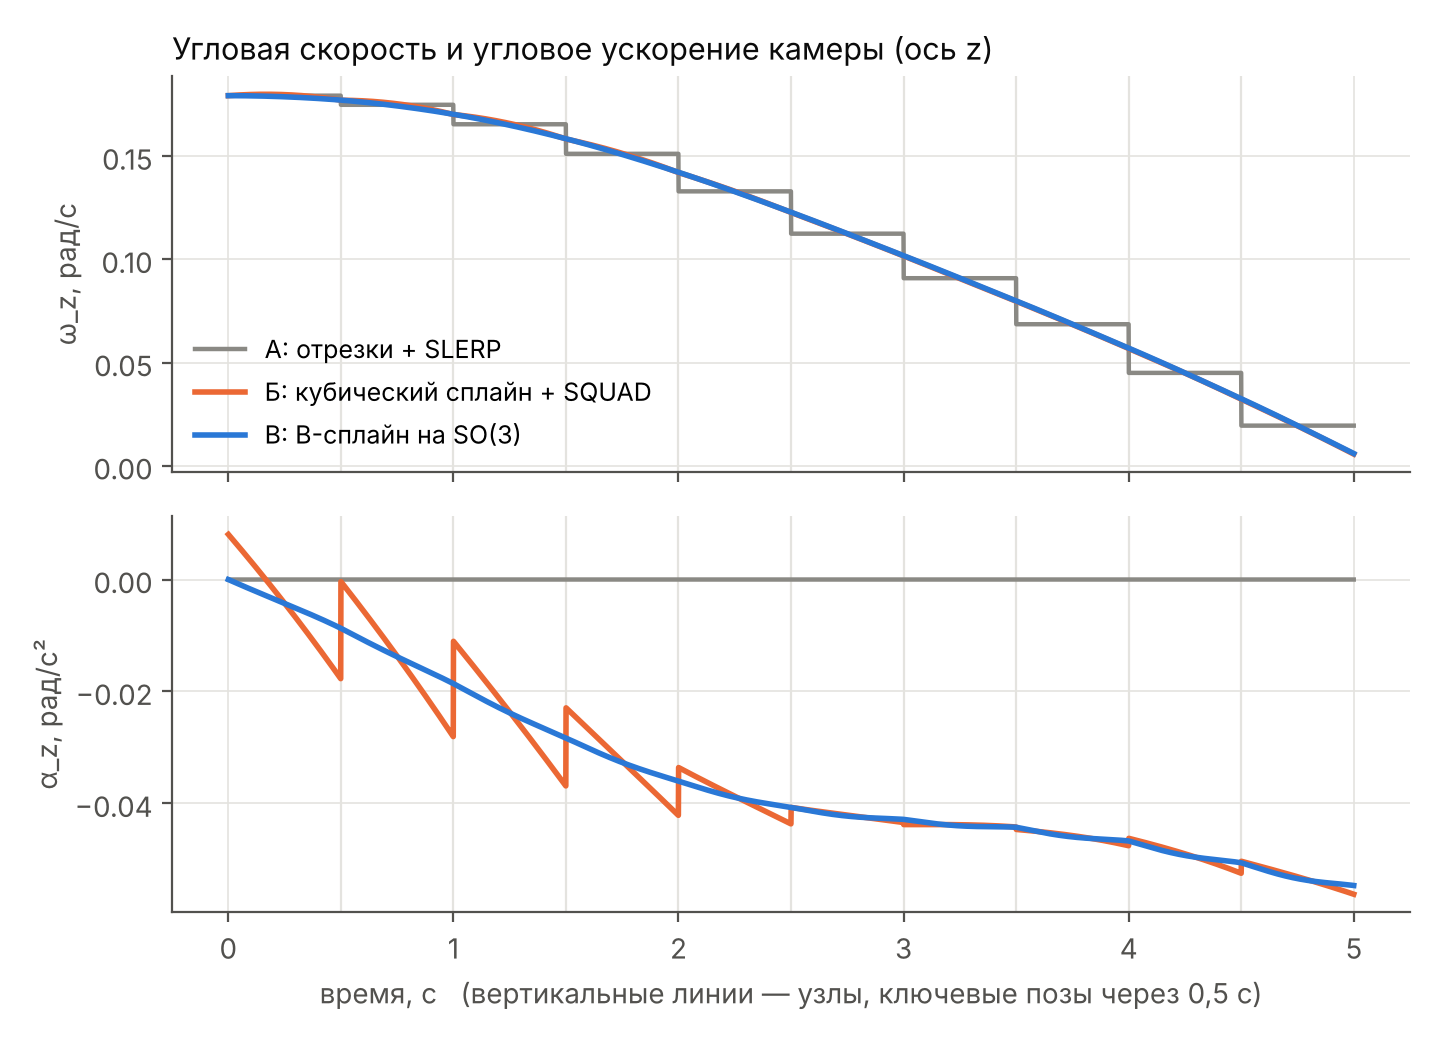
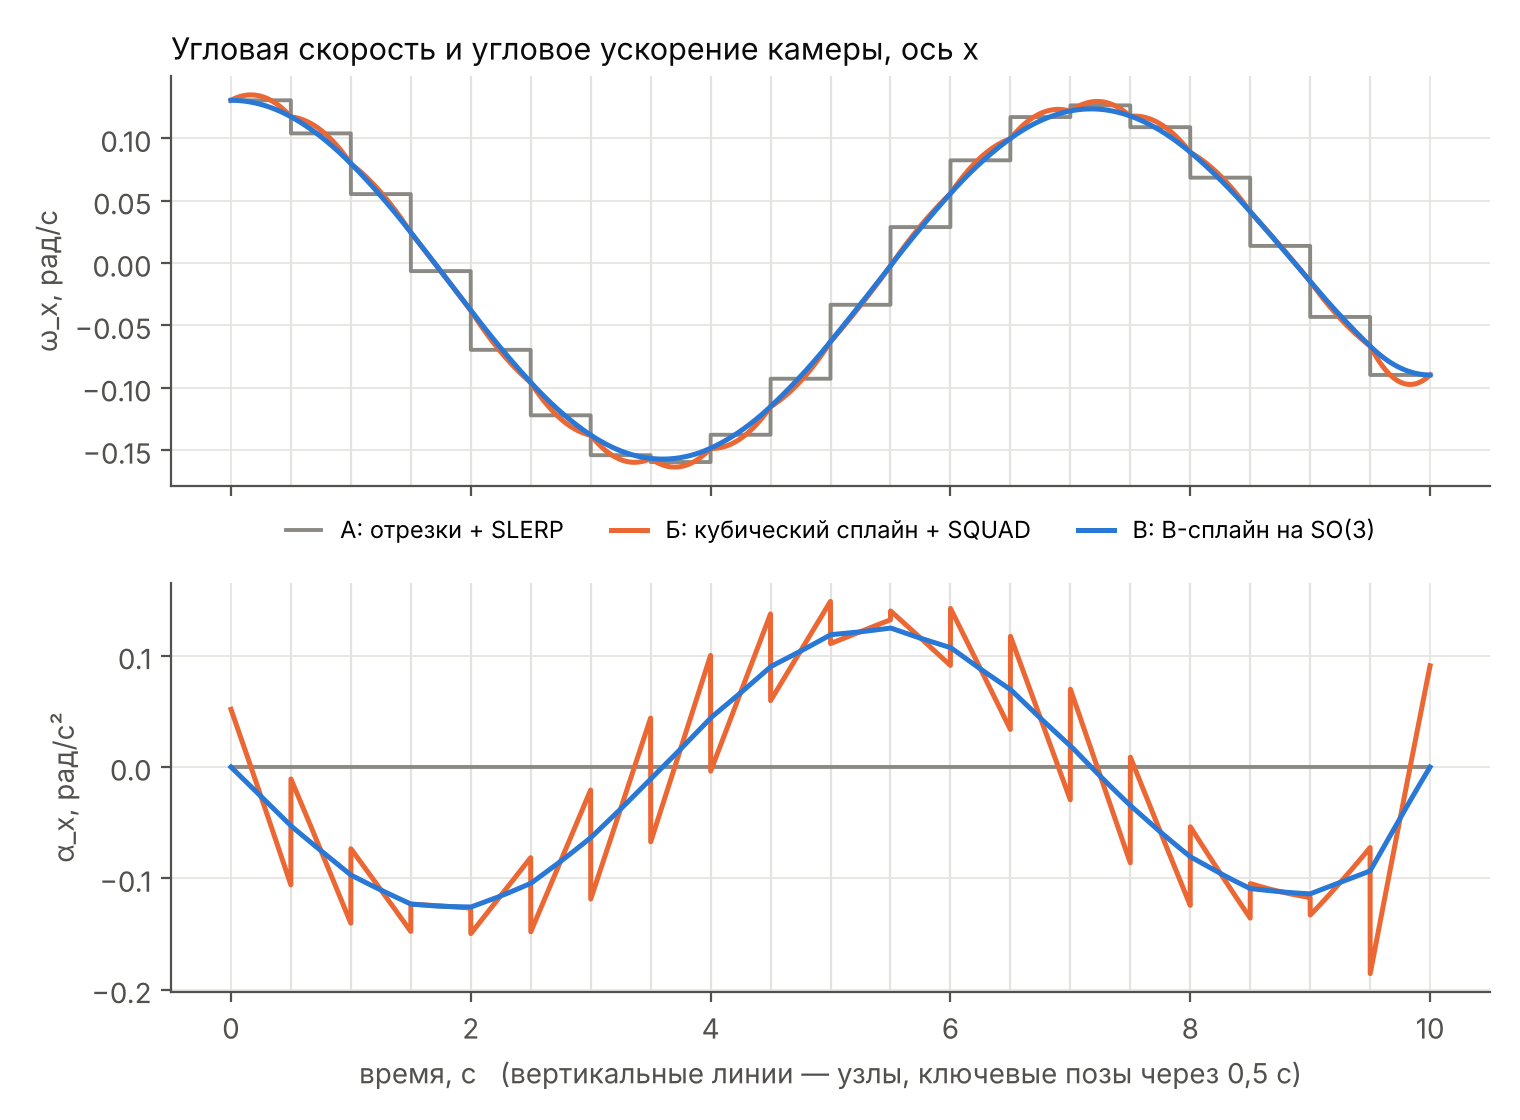
Правки по рецензии: скачки на стыке, предел слева в РК4, рисунки на всю траекторию
- Вычисление по формуле заданного отрезка (параметр ref): скачки в узлах
  сравниваются при u = 1 и u = 0, а не в точках ±1e-9 с.
- РК4 с пределом слева в конце шага (left_limit): модель Б на сетке в узлах
  даёт порядок ~3.8, то есть первый порядок там зависит от отсчёта в узле.
- Рисунки 1 и 2 на всю траекторию 10 с, оси с наибольшими скачками.
- snippet.py: строки до 80 символов.

Claude-Session: https://claude.ai/code/session_0179BELn6KCQVn68LiKQreBn

diff --git a/code/spline_imu.py b/code/spline_imu.py
@@ -84,10 +84,14 @@ class Keyframes:
         self.K = len(p) - 1
         self.tK = t0 + self.K * dt
 
-    def seg(self, t):
-        """Номер отрезка i и локальный параметр u в [0, 1]."""
+    def seg(self, t, ref=None):
+        """Номер отрезка i и локальный параметр u (u в [0, 1) внутри отрезка).
+        Если задан ref, отрезок берётся по моментам ref, а u считается для t:
+        так формула отрезка продолжается за его границу (нужно для пределов
+        слева и справа в узле)."""
         x = (np.asarray(t, float) - self.t0) / self.dt
-        i = np.clip(np.floor(x).astype(int), 0, self.K - 1)
+        xr = x if ref is None else (np.asarray(ref, float) - self.t0) / self.dt
+        i = np.clip(np.floor(xr).astype(int), 0, self.K - 1)
         return i, x - i
 
 
@@ -123,10 +127,10 @@ class ModelV:
         self.Q = np.concatenate([Q0[None], R, QK2[None]])     # Q_0..Q_{K+2}
         self.d = Log(np.swapaxes(self.Q[:-1], -1, -2) @ self.Q[1:])
 
-    def eval(self, t):
+    def eval(self, t, ref=None):
         kf = self.kf
         t = np.atleast_1d(t)
-        i, u = kf.seg(t)
+        i, u = kf.seg(t, ref)
         dt = kf.dt
         C = np.stack([self.c[i + j] for j in range(4)], axis=-1)    # (N,3,4)
         psi = lambda a, b, c_, d: np.stack([a, b, c_, d], -1)[..., None]
@@ -155,11 +159,11 @@ def slerp(P, Q, u):
     return P @ Exp(u[..., None] * Log(np.swapaxes(P, -1, -2) @ Q))
 
 
-def numeric_rates(Rfun, t, eps=1e-3):
+def numeric_rates(Rfun, t, eps=1e-3, seg=None):
     """omega, alpha в собственной системе по 5-точечным разностям.
     Rfun(t, seg) вычисляет поворот по формуле отрезка seg (гладкое продолжение
     за его границы), поэтому шаблон не перескакивает через узел."""
-    kf_seg = Rfun.seg_of(t)
+    kf_seg = Rfun.seg_of(t) if seg is None else seg
 
     def omega_at(tt):
         offs = np.array([-2, -1, 1, 2]) * eps
@@ -181,10 +185,10 @@ class ModelA:
     def __init__(self, kf):
         self.kf = kf
 
-    def eval(self, t):
+    def eval(self, t, ref=None):
         kf = self.kf
         t = np.atleast_1d(t)
-        i, u = kf.seg(t)
+        i, u = kf.seg(t, ref)
         p = kf.p[i] + u[:, None] * (kf.p[i + 1] - kf.p[i])
         acc = np.zeros_like(p)                       # внутри отрезка p'' = 0
         d = Log(np.swapaxes(kf.R[i], -1, -2) @ kf.R[i + 1])
@@ -220,13 +224,16 @@ class ModelB:
         Rfun.seg_of = lambda tt: kf.seg(tt)[0]
         self.Rfun = Rfun
 
-    def eval(self, t):
+    def eval(self, t, ref=None):
         t = np.atleast_1d(t)
-        i, _ = self.kf.seg(t)
+        i, _ = self.kf.seg(t, ref)
         Rm = self.Rfun(t, i)
-        p = self.cs(t)
-        acc = self.cs(t, 2)
-        om, al = numeric_rates(self.Rfun, t)
+        # кусочный многочлен отрезка i (а не того, куда попало t)
+        x = t[:, None] - self.cs.x[i][:, None]
+        c = self.cs.c[:, i, :]                       # (4, N, 3)
+        p = ((c[0] * x + c[1]) * x + c[2]) * x + c[3]
+        acc = 6 * c[0] * x + 2 * c[1]
+        om, al = numeric_rates(self.Rfun, t, seg=i)
         return Rm, p, acc, om, al
 
 
@@ -237,8 +244,8 @@ class Rig:
         self.p_BC = np.asarray(p_BC)
         self.r = -self.R_BC.T @ self.p_BC           # положение IMU в системе C
 
-    def imu_state(self, model, t):
-        Rwc, pwc, awc, omc, alc = model.eval(t)
+    def imu_state(self, model, t, ref=None):
+        Rwc, pwc, awc, omc, alc = model.eval(t, ref)
         r = self.r
         Rwb = Rwc @ self.R_BC.T
         pwb = pwc + (Rwc @ r)
@@ -247,8 +254,8 @@ class Rig:
         omb = (self.R_BC @ omc[..., None])[..., 0]
         return Rwb, pwb, awb, omb
 
-    def ideal_imu(self, model, t):
-        Rwb, _, awb, omb = self.imu_state(model, t)
+    def ideal_imu(self, model, t, ref=None):
+        Rwb, _, awb, omb = self.imu_state(model, t, ref)
         f = (np.swapaxes(Rwb, -1, -2) @ (awb - G_W)[..., None])[..., 0]
         return omb, f
 
@@ -307,6 +314,28 @@ def integrate_rk4(R0, v0, p0, om_half, acc_half, h):
     return RR, P
 
 
+def integrate_rk4_lr(R0, v0, p0, om_half, acc_half, om_left, acc_left, h):
+    """РК4, где последняя стадия шага берёт предел слева (om_left, acc_left)."""
+    n = (len(om_half) - 1) // 2 + 1
+    R, v, p = R0.copy(), v0.copy(), p0.copy()
+    P = np.empty((n, 3)); RR = np.empty((n, 3, 3))
+    P[0], RR[0] = p, R
+    for s in range(n - 1):
+        k0, k1, k2 = 2 * s, 2 * s + 1, 2 * s + 2
+        dR1, dv1, dp1 = R @ hat(om_half[k0]), R @ acc_half[k0] + G_W, v
+        R2, v2 = R + 0.5*h*dR1, v + 0.5*h*dv1
+        dR2, dv2, dp2 = R2 @ hat(om_half[k1]), R2 @ acc_half[k1] + G_W, v2
+        R3, v3 = R + 0.5*h*dR2, v + 0.5*h*dv2
+        dR3, dv3, dp3 = R3 @ hat(om_half[k1]), R3 @ acc_half[k1] + G_W, v3
+        R4, v4 = R + h*dR3, v + h*dv3
+        dR4, dv4, dp4 = R4 @ hat(om_left[k2]), R4 @ acc_left[k2] + G_W, v4
+        R = polar(R + h/6 * (dR1 + 2*dR2 + 2*dR3 + dR4))
+        v = v + h/6 * (dv1 + 2*dv2 + 2*dv3 + dv4)
+        p = p + h/6 * (dp1 + 2*dp2 + 2*dp3 + dp4)
+        P[s + 1], RR[s + 1] = p, R
+    return RR, P
+
+
 def imu_velocity(rig, model, t, eps=1e-3):
     """Скорость IMU в начальный момент: 5-точечная разность по формуле отрезка
     (нужна только для начального условия; погрешность ~1e-13 м/с)."""
@@ -322,9 +351,12 @@ def imu_velocity(rig, model, t, eps=1e-3):
     return sum(wk * pk for wk, pk in zip(w, pts))
 
 
-def run_consistency(rig, model, t_start, t_end, h, scheme):
+def run_consistency(rig, model, t_start, t_end, h, scheme, left_limit=False):
     """Интегрирует идеальные показания модели и сравнивает с её же траекторией.
-    Возвращает RMS ошибки положения [м] и ориентации [рад]."""
+    Возвращает RMS ошибки положения [м] и ориентации [рад].
+    left_limit=True (только РК4): в конце шага берётся значение по формуле того
+    отрезка, где лежит середина шага, то есть предел слева в узле. Реальный
+    датчик так не умеет: в каждый момент у него одно показание."""
     n = int(round((t_end - t_start) / h)) + 1
     s = t_start + h * np.arange(n)
     Rwb, pwb, _, _ = rig.imu_state(model, s)
@@ -335,7 +367,14 @@ def run_consistency(rig, model, t_start, t_end, h, scheme):
     else:
         s2 = t_start + (h / 2) * np.arange(2 * n - 1)
         om, ac = rig.ideal_imu(model, s2)
-        RR, P = integrate_rk4(Rwb[0], v0, pwb[0], om, ac, h)
+        if left_limit:
+            ends = s2[2::2]
+            om_e, ac_e = rig.ideal_imu(model, ends, ref=ends - h / 2)
+            om_l, ac_l = om.copy(), ac.copy()
+            om_l[2::2], ac_l[2::2] = om_e, ac_e
+            RR, P = integrate_rk4_lr(Rwb[0], v0, pwb[0], om, ac, om_l, ac_l, h)
+        else:
+            RR, P = integrate_rk4(Rwb[0], v0, pwb[0], om, ac, h)
     ep = np.linalg.norm(P - pwb, axis=1)
     eR = np.linalg.norm(Log(np.swapaxes(RR, -1, -2) @ Rwb), axis=1)
     return np.sqrt(np.mean(ep**2)), np.sqrt(np.mean(eR**2))

diff --git a/code/figures.py b/code/figures.py
@@ -13,35 +13,35 @@ plt.rcParams.update({'font.size': 10, 'axes.edgecolor': INK2, 'axes.labelcolor':
     'legend.frameon': False, 'figure.dpi': 100, 'savefig.dpi': 200})
 kf = demo_keyframes(); rig = demo_rig()
 models = {'A': ModelA(kf), 'B': ModelB(kf), 'V': ModelV(kf)}
-t = np.linspace(0.0005, 4.9995, 5000)
+t = np.linspace(0.0005, 9.9995, 10000)
 ev = {k: m.eval(t) for k, m in models.items()}
-knots = kf.dt * np.arange(1, 10)
+knots = kf.dt * np.arange(1, kf.K)
 
 # --- Рис. 1: угловая скорость и угловое ускорение ---
-fig, (a1, a2) = plt.subplots(2, 1, figsize=(7.2, 5.2), sharex=True)
+fig, (a1, a2) = plt.subplots(2, 1, figsize=(7.6, 5.6), sharex=True)
 for k in ('A', 'B', 'V'):
-    a1.plot(t, ev[k][3][:, 2], color=COL[k], label=LAB[k], lw=2 if k != 'A' else 1.6)
-    a2.plot(t, ev[k][4][:, 2], color=COL[k], lw=2 if k != 'A' else 1.6)
+    a1.plot(t, ev[k][3][:, 0], color=COL[k], label=LAB[k], lw=1.8 if k != 'A' else 1.4)
+    a2.plot(t, ev[k][4][:, 0], color=COL[k], lw=1.8 if k != 'A' else 1.4)
 for ax in (a1, a2):
     for x in knots: ax.axvline(x, color=GRID, lw=0.8, zorder=0)
-a1.set_ylabel('ω_z, рад/с'); a2.set_ylabel('α_z, рад/с²'); a2.set_xlabel('время, с   (вертикальные линии — узлы, ключевые позы через 0,5 с)')
-a1.set_title('Угловая скорость и угловое ускорение камеры (ось z)', loc='left', color=INK, fontsize=11)
-a1.legend(loc='lower left', fontsize=9, ncol=1)
+a1.set_ylabel('ω_x, рад/с'); a2.set_ylabel('α_x, рад/с²'); a2.set_xlabel('время, с   (вертикальные линии — узлы, ключевые позы через 0,5 с)')
+a1.set_title('Угловая скорость и угловое ускорение камеры, ось x', loc='left', color=INK, fontsize=11)
+a1.legend(loc='upper center', fontsize=8.5, ncol=3, bbox_to_anchor=(0.5, -0.02), handlelength=1.5)
 
 fig.tight_layout(); fig.savefig(OUT + 'fig1_omega_alpha.png'); plt.close(fig)
 
 # --- Рис. 2: вклад рычага в показания акселерометра ---
-fig, ax = plt.subplots(figsize=(7.2, 3.4))
+fig, ax = plt.subplots(figsize=(7.6, 3.6))
 for k in ('B', 'V'):
     Rwc, _, _, om, al = ev[k]
     r = rig.r
     lever = np.cross(al, r) + np.cross(om, np.cross(om, r))          # в системе C
     lever_B = (rig.R_BC @ lever[..., None])[..., 0] * 1000           # в системе B, мм/с²
-    ax.plot(t, lever_B[:, 0], color=COL[k], label=LAB[k])
+    ax.plot(t, lever_B[:, 2], color=COL[k], label=LAB[k], lw=1.8)
 for x in knots: ax.axvline(x, color=GRID, lw=0.8, zorder=0)
 ax.set_ylabel('мм/с²'); ax.set_xlabel('время, с')
-ax.set_title('Вклад рычага α×r + ω×(ω×r) в акселерометр (ось x IMU), |r| ≈ 9 см', loc='left', color=INK, fontsize=11)
-ax.legend(loc='lower left', fontsize=9)
+ax.set_title('Вклад рычага α×r + ω×(ω×r) в акселерометр, ось z IMU, |r| = 8,5 см', loc='left', color=INK, fontsize=11)
+ax.legend(loc='upper left', fontsize=9)
 fig.tight_layout(); fig.savefig(OUT + 'fig2_lever.png'); plt.close(fig)
 
 # --- Рис. 3: сходимость обратного интегрирования ---

diff --git a/code/snippet.py b/code/snippet.py
@@ -1,16 +1,28 @@
 import numpy as np
 from scipy.spatial.transform import Rotation as Rot
 
-Exp = lambda phi: Rot.from_rotvec(phi).as_matrix()
-Log = lambda R: Rot.from_matrix(R).as_rotvec()
 G_W = np.array([0.0, 0.0, -9.81])
+
+
+def Exp(phi):
+    return Rot.from_rotvec(phi).as_matrix()
+
+
+def Log(R):
+    return Rot.from_matrix(R).as_rotvec()
+
 
 def cum_basis(u):
     """Кумулятивный базис и его производные по u."""
-    B   = np.array([(5 + 3*u - 3*u**2 + u**3) / 6, (1 + 3*u + 3*u**2 - 2*u**3) / 6, u**3 / 6])
-    dB  = np.array([(3 - 6*u + 3*u**2) / 6, (3 + 6*u - 6*u**2) / 6, u**2 / 2])
+    B = np.array([(5 + 3*u - 3*u**2 + u**3) / 6,
+                  (1 + 3*u + 3*u**2 - 2*u**3) / 6,
+                  u**3 / 6])
+    dB = np.array([(3 - 6*u + 3*u**2) / 6,
+                   (3 + 6*u - 6*u**2) / 6,
+                   u**2 / 2])
     ddB = np.array([u - 1, 1 - 2*u, u])
     return B, dB, ddB
+
 
 def rotation_spline(Q, t, t0, dt):
     """R, omega, alpha кумулятивного B-сплайна на SO(3) в момент t."""
@@ -29,9 +41,12 @@ def rotation_spline(Q, t, t0, dt):
         R = R @ A
     return R, om, al
 
+
 def ideal_imu(R_wc, acc_wc, om_c, al_c, R_bc, r):
-    """Идеальные показания IMU по движению камеры; r — положение IMU в системе камеры."""
-    acc_wb = acc_wc + R_wc @ (np.cross(al_c, r) + np.cross(om_c, np.cross(om_c, r)))
+    """Идеальные показания IMU по движению камеры.
+    r -- положение IMU в системе камеры."""
+    lever = np.cross(al_c, r) + np.cross(om_c, np.cross(om_c, r))
+    acc_wb = acc_wc + R_wc @ lever
     R_wb = R_wc @ R_bc.T
     gyro = R_bc @ om_c
     accel = R_wb.T @ (acc_wb - G_W)

diff --git a/code/convergence.py b/code/convergence.py
@@ -16,4 +16,12 @@ for name, M in models.items():
                 ep, eR = run_consistency(rig, M, ts, te, h, scheme)
                 res.append(dict(model=name, grid=grid, scheme=scheme, f=f, ep=ep, eR=eR))
                 print(name, grid, scheme, f, '%.3e %.3e' % (ep, eR), '%.0fs' % (time.time()-T0), flush=True)
+# РК4 на сетке в узлах, конец шага -- предел слева (проверка: дело в модели или в отсчёте в узле)
+for name in ('B', 'V'):
+    for f in freqs:
+        h = 1.0 / f
+        te = h * int((kf.tK - 1e-9) / h)
+        ep, eR = run_consistency(rig, models[name], 0.0, te, h, 'rk4', left_limit=True)
+        res.append(dict(model=name, grid='aligned', scheme='rk4_left', f=f, ep=ep, eR=eR))
+        print(name, 'aligned rk4_left', f, '%.3e %.3e' % (ep, eR), flush=True)
 json.dump(res, open('../out/convergence.json', 'w'), indent=1)
